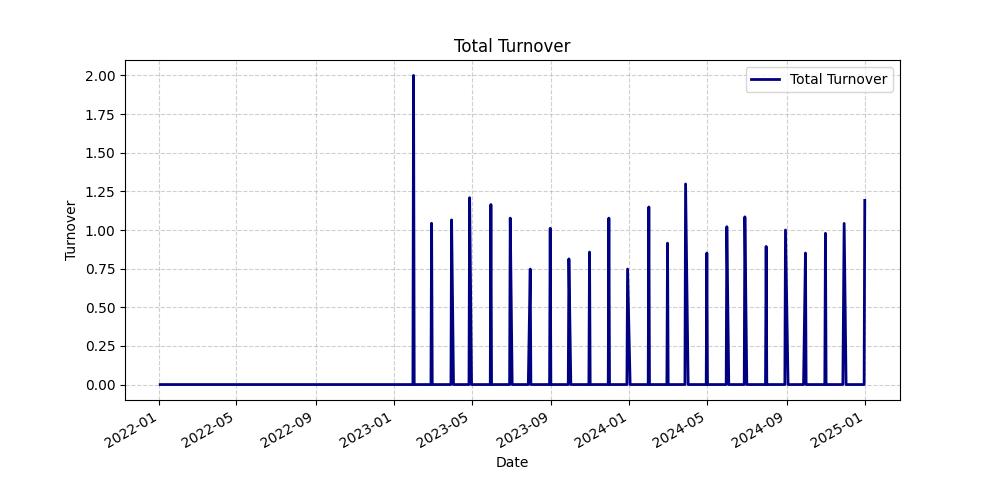
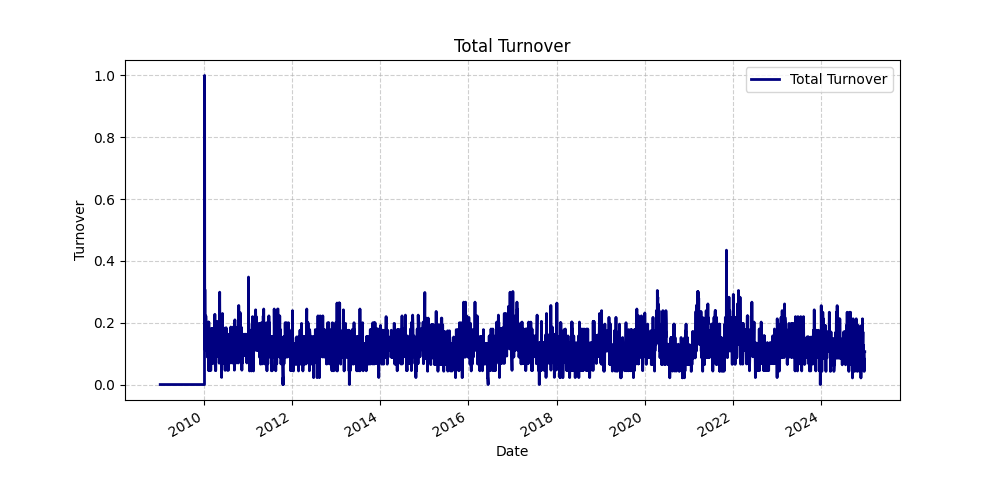
draft 3.0

diff --git a/scripts/run_backtester.py b/scripts/run_backtester.py
@@ -4,12 +4,12 @@ from momentum_backtester.adapters.sp500_github_adapter import load_tiny_sample, 
 from momentum_backtester.backtester import Backtester
 from momentum_backtester.signals import price_momentum
 from momentum_backtester.ranking import cross_sectional_rank
-from momentum_backtester.aggregation import long_short_top_bottom_sector_neutral
+from momentum_backtester.aggregation import long_short_top_bottom_sector_neutral, long_only
 from momentum_backtester.costs import turnover_costs
 from momentum_backtester.analysis import Analysis
 
 def main() -> None:
-    data = load_sp500_data_wrds(start_year=2022, end_year=2024)
+    data = load_sp500_data_wrds(start_year=2009, end_year=2024)
     sp500_universes = data["sp500_universes"]
     retoto_df_wide = data["retoto_df_wide"]
     retctc_df_wide = data["retctc_df_wide"]
@@ -28,13 +28,17 @@ def main() -> None:
             lookback_months=11, 
             skip=1),
         ranker=cross_sectional_rank,
-        aggregator=lambda ranks, sectors: long_short_top_bottom_sector_neutral(
+        # aggregator=lambda ranks, sectors: long_short_top_bottom_sector_neutral(
+        #     ranks, 
+        #     sectors, 
+        #     top_pctg=20, 
+        #     bottom_pctg=20),
+        aggregator=lambda ranks, sectors: long_only(
             ranks, 
             sectors, 
-            top_pctg=20, 
-            bottom_pctg=20),
+            top_pctg=20),
         costs=lambda w: turnover_costs(w, 10.0),
-        rebal_freq="M",
+        rebal_freq="D",
     )
     results = bt.run()
     print(results)

diff --git a/src/momentum_backtester/aggregation.py b/src/momentum_backtester/aggregation.py
@@ -61,3 +61,35 @@ def long_short_top_bottom_sector_neutral(
         weights.loc[date] = w
 
     return weights
+
+
+def long_only(
+    ranks: pd.DataFrame,
+    sectors: pd.DataFrame,
+    top_pctg: int = 20,
+) -> pd.DataFrame:
+    weights = pd.DataFrame(0.0, index=ranks.index, columns=ranks.columns)
+    for date, row in ranks.iterrows():
+        valid = row.dropna()
+        if valid.empty:
+            continue
+        w = pd.Series(0.0, index=row.index)
+
+        sector_date = sectors.loc[date]
+        sector_stats = sector_date.value_counts()
+
+        top = []
+        for sector in sector_stats.index:
+            valid_names = valid[sector_date == sector]
+
+            nsmallest = int(top_pctg/100 * len(valid_names))
+
+            top.append(valid_names.nsmallest(nsmallest))
+
+        top = pd.concat(top)
+
+        if len(top) > 0:
+            w.loc[top.index] = 1.0 / len(top)
+        weights.loc[date] = w
+
+    return weights

diff --git a/src/momentum_backtester/adapters/sp500_github_adapter.py b/src/momentum_backtester/adapters/sp500_github_adapter.py
@@ -74,11 +74,11 @@ def load_sp500_data_wrds(start_year: int, end_year: int) -> dict:
     sector_df_wide = price_df_long.pivot(index="date", columns="permno", values="gsector")
 
     # final ffill 
-    retoto_df_wide = retoto_df_wide.ffill(limit = 5)
-    retctc_df_wide = retctc_df_wide.ffill(limit = 5)
-    adjclose_df_wide = adjclose_df_wide.ffill(limit = 5)
-    adjopen_df_wide = adjopen_df_wide.ffill(limit = 5)
-    sector_df_wide = sector_df_wide.ffill(limit = 5)
+    retoto_df_wide = retoto_df_wide.ffill(limit = 3)
+    retctc_df_wide = retctc_df_wide.ffill(limit = 3)
+    adjclose_df_wide = adjclose_df_wide.ffill(limit = 3)
+    adjopen_df_wide = adjopen_df_wide.ffill(limit = 3)
+    sector_df_wide = sector_df_wide.ffill(limit = 3)
 
     return {
         "sp500_universes": sp500_universes,

diff --git a/src/momentum_backtester/backtester.py b/src/momentum_backtester/backtester.py
@@ -52,7 +52,10 @@ class Backtester:
         # print(rebal_dates)
 
         signals = self.signal(self.adjclose_df_wide)
-        # print(signals.tail())
+
+        # make signals nan if the corresponding adjclose is nan
+        # the reason that adjclose_df_wide is nan could be due to delisting or the company no longer in sp500, in either case, the signal should be nan
+        signals = signals.where(self.adjclose_df_wide.notna(), np.nan)
 
         ranks = self.ranker(signals.loc[rebal_dates])
         # print(ranks.tail())

diff --git a/README.md b/README.md
@@ -1,46 +1,140 @@
 # momentum-backtester
 
-Sector‑neutral momentum backtests built the right way: typed, tested, reproducible, and CI‑enforced. Clean architecture makes it easy to extend signals, ranking, and portfolio construction.
+Sector‑neutral momentum backtests the right way: typed, testable, reproducible. Clean architecture makes it easy to extend signals, ranking, and portfolio construction.
 
-## Features
-- Point‑in‑time S&P 500 universe + GICS sectors.
-- Pluggable components: Signal → Rank → Aggregate → Costs.
-- Monthly rebalancing, turnover‑based costs, sector attribution.
-- Metrics: CAGR, vol, Sharpe, max DD, alpha/beta, rolling beta.
-- Reproducible runs (fixed calendar, pinned deps, Docker image).
+---
+
+## Overview
+
+This repository provides a modular, S&P 500‑focused momentum backtesting framework. You can plug in your own:
+- Signal function (e.g., price momentum)
+- Cross‑sectional ranker
+- Portfolio aggregator (long‑only or long/short, sector‑neutral options)
+- Transaction cost model 
+(should be fully OoP)
+
+It supports daily or monthly rebalancing, sector attribution, and produces analysis charts and summary statistics.
+
+## Installation
+
+Prerequisites:
+- Python 3.10+
+- Access to WRDS (with a valid token in environment)
+
+Install dependencies (pip or uv):
+
+```bash
+# using pip
+pip install -e .[dev]
+
+# or using uv (if you prefer)
+uv pip install -e .[dev]
+```
 
 ## Quickstart
 
-- provide in .env token to WRDS database
-```bash
+1. Export your WRDS credentials (or place them in a `.env` that your shell loads):
 
-# Run a backtest (tiny data)
+```bash
+export WRDS_USERNAME=your_user
+export WRDS_PASSWORD=your_password
+```
+
+2. Run a backtest and generate reports:
+
+```bash
 python scripts/run_backtester.py
 ```
 
-## structure of backtester
+Outputs (plots and metrics) are written to `output/`.
 
-- 1: get rebalancing date
-- 2: get signal -> save signal file
-    in the signal file, the date represents at the starting of date, the signal file is already accessible.
-- 3: get rank -> aggregate rank to get weights (this part should be further generalized)
+## How it works
+
+At a high level:
+- Rebalance dates are generated from a fixed calendar (daily or month‑end)
+- Signals are computed from point‑in‑time prices (12‑1 momentum by default)
+- Signals are ranked cross‑sectionally per date
+- Weights are built via an aggregator (long‑only or sector‑neutral long/short)
+- Portfolio returns are computed, costs are applied based on turnover
+- Analysis module saves charts (NAV, SPY overlay, rolling beta, turnover) and prints summary stats
+
+Key script:
+- `scripts/run_backtester.py` — end‑to‑end example using WRDS S&P 500 data
+
+Demo script:
+- `notebooks/demo.ipynb` — end‑to‑end example using WRDS S&P 500 data
+
+Core modules:
+- `src/momentum_backtester/backtester.py` — orchestrates the backtest loop
+- `src/momentum_backtester/signals.py` — e.g., `price_momentum(lookback_months=11, skip=1)`
+- `src/momentum_backtester/ranking.py` — cross‑sectional ranking helpers
+- `src/momentum_backtester/aggregation.py` — portfolio construction (long‑only and sector‑neutral long/short)
+- `src/momentum_backtester/costs.py` — turnover‑based transaction costs
+- `src/momentum_backtester/analysis.py` — metrics and plots
+- `src/momentum_backtester/adapters/` — data loading utilities (S&P 500 universe, sectors)
+
+## Configuration knobs
+
+You can customize the strategy by editing `scripts/run_backtester.py`:
+- Rebalance frequency: `rebal_freq="D"` or `"M"`
+- Signal: `price_momentum(prices, lookback_months=11, skip=1)`
+- Ranker: `cross_sectional_rank`
+- Aggregators:
+  - `long_only(top_pctg=20)`
+  - `long_short_top_bottom_sector_neutral(top_pctg=20, bottom_pctg=20)`
+- Transaction costs: `turnover_costs(weights, bps_per_turnover)`
+
+## Outputs and metrics
+
+Generated to `output/` by `Analysis`:
+- NAV chart (gross vs net, with optional SPY overlay)
+- SPY price chart
+- Rolling beta of strategy vs SPY
+- Total turnover
+- Summary metrics: CAGR, annualized vol, Sharpe (with configurable risk‑free), max drawdown, alpha/beta
+
+## Notes on data
+
+The adapter pulls a point‑in‑time S&P 500 universe annual frequency, sector labels, and price series via WRDS. Identifiers used include `gvkey` and `permno`. You can swap in your own data adapter as long as you can provide wide DataFrames for prices/returns and sector labels.
+
 
 # Reflections:
+- wide format, despite advantages of vectorization, seems to have a difficult time dealing with delisting.
 - I implemented the strategy in the classic setting as specified in the sheet. I did not have the time to fine tune any parameters, but the function class is written in such a way that it should be grid-searchable.
-- several ways can be tried to make the strat work better: adjust the momentum by beta/vol, coupled with fundamentals/volumes to intentionally avoid meme names, get help with MA line/vol evolution, double-sort with size might help as well.
-- I used WRDS freely available data to build the backtester. identifier: gvkey, permno.
-- The strategy does not work well at its current setting, reasons could be multi-faceted: 
-- infra high level: dockerize, deploy on AWS/Azure, crontab or airflow to run it daily. Useful intermediate results should be saved in a db or simply local fs.
-- on coding level: have mypy, linter, CI flow, pytest to ensure compilability and coding standard. Separate test env and prod env. 
-- if possible: do not fetch data directly from the source popping into the backtester, instead we should first save the data locally and let the backetester fetch from locally. In this way, we maintain raw_input_db, backtester, output_db. In parallel, we can per-calculate useful factors and pop into db so that backtester focuses only on backtesting and report gen.  (separate ETL)
+- I used WRDS freely available data to build the backtester. identifier: gvkey, permno. In this project, I used a github package that wraps the WRDS API to fetch the data.
+## Strategy Rationale and Limitations
+
+The current strategy implements a classic cross-sectional momentum approach, ranking stocks by their past 12-1 month returns and constructing portfolios based on these ranks. This specification is chosen for its simplicity and its strong historical performance. However, in practice, the strategy does not perform robustly under the current settings. Several factors may contribute to this:
+
+- **Parameter Sensitivity:** The lookback and skip parameters, as well as portfolio construction rules (e.g., top 20% long-only, or 20% long short sector neutral), are not optimized.
+- **High Beta Exposure:** Simple momentum signals often load heavily on high-beta stocks.
+- **Sector Concentration:** Momentum effects are frequently strongest at the sector level (e.g., tech vs. energy), ie. sector rotation. Without explicit sector controls, the strategy may become unintentionally concentrated, reducing diversification and increasing risk.
+- **Delisting and Survivorship Bias:** Handling of delisted stocks and universe changes is challenging in wide-format data, potentially distorting results if not managed carefully.
+
+## How the Strategy Could Be Improved
+
+1. **Risk-Adjusted Momentum**
+   - Adjust signals for each stock by their historical beta or volatility, reducing unintended risk exposures and isolating true momentum effects.
+
+2. **Incorporate Fundamentals and Events**
+   - Overlay fundamental metrics (e.g., earnings quality, size, liquidity) and earnings events. Might be able diversion from a pure technical driven strategy.
+
+3. **Consider other factors like MAs**
+   - Use moving averages or other technical overlays to time momentum exposure.
+
+4. **Double-Sorting Approaches**
+   - Combine momentum with other factors (e.g., size, value, margin) or sort within buckets to diversify risk and improve robustness.
+
+- Infrastructure: The whole pipeline should be dockerized and deployed on AWS or Azure. A scheduler like crontab or Airflow can trigger the workflow daily after market close. Intermediate results (raw data, clean data, signals, reports) should be saved to a database or local filesystem so they are reproducible and auditable.
+- Coding practices: Enforce quality with mypy, a linter, pytest, and CI. Maintain separate environments for testing and production to avoid accidental breakage.
+- Data workflow: The backtester should not fetch data directly from the vendor. Instead, first store raw inputs in a dedicated “raw_input_db.” The ETL process then cleans and enriches the data which are stored in a “feature/factors_table.” The backtester consumes only these prepared datasets and writes outputs (signals, attribution, performance) into an “output_db.” This separation keeps ETL and strategy logic cleanly decoupled.
 
 
 # TODO:
-- make it more general
-- incorporate fundamentals data 
+- make it more general and OoP
+- overlay with fundamentals data 
 - need to do robust testing with dummy file, to make sure that the shift() is done all correctly.
 - overlay with macro: i.e. risk-free rate
 - plot should follow a certain style
 - ruff, mypy, makefile
 - propoer logger
-
